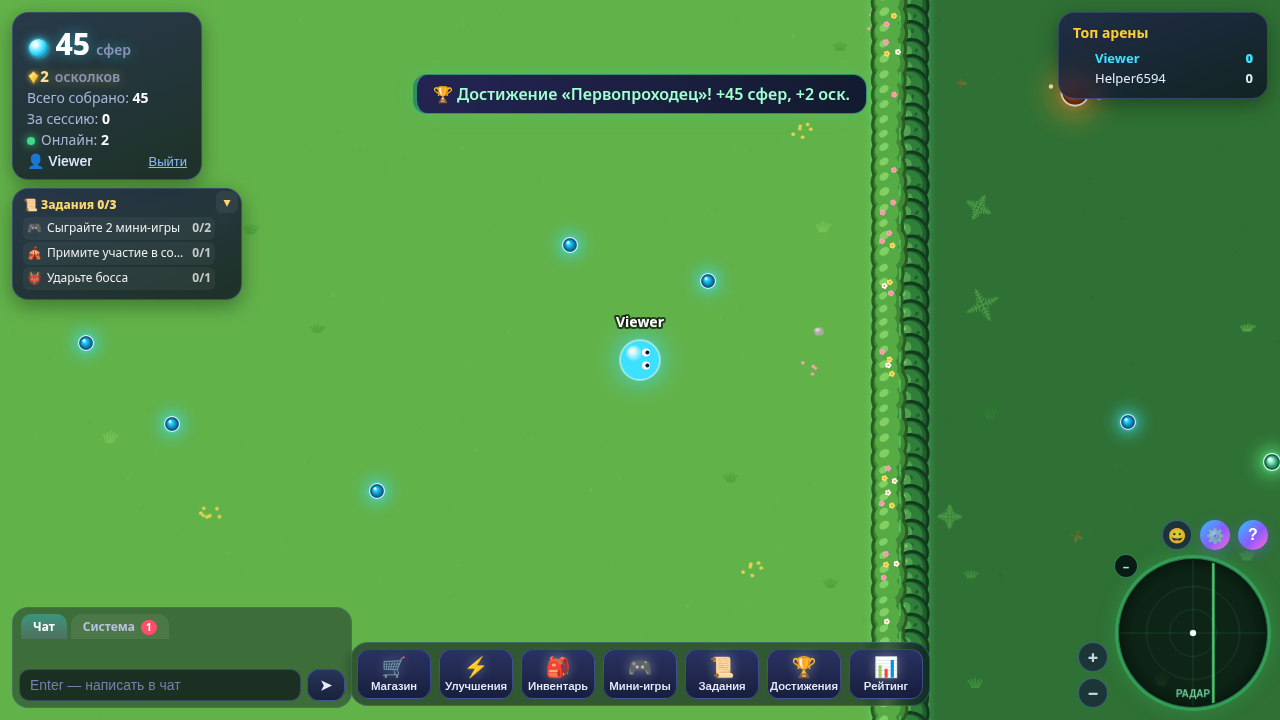
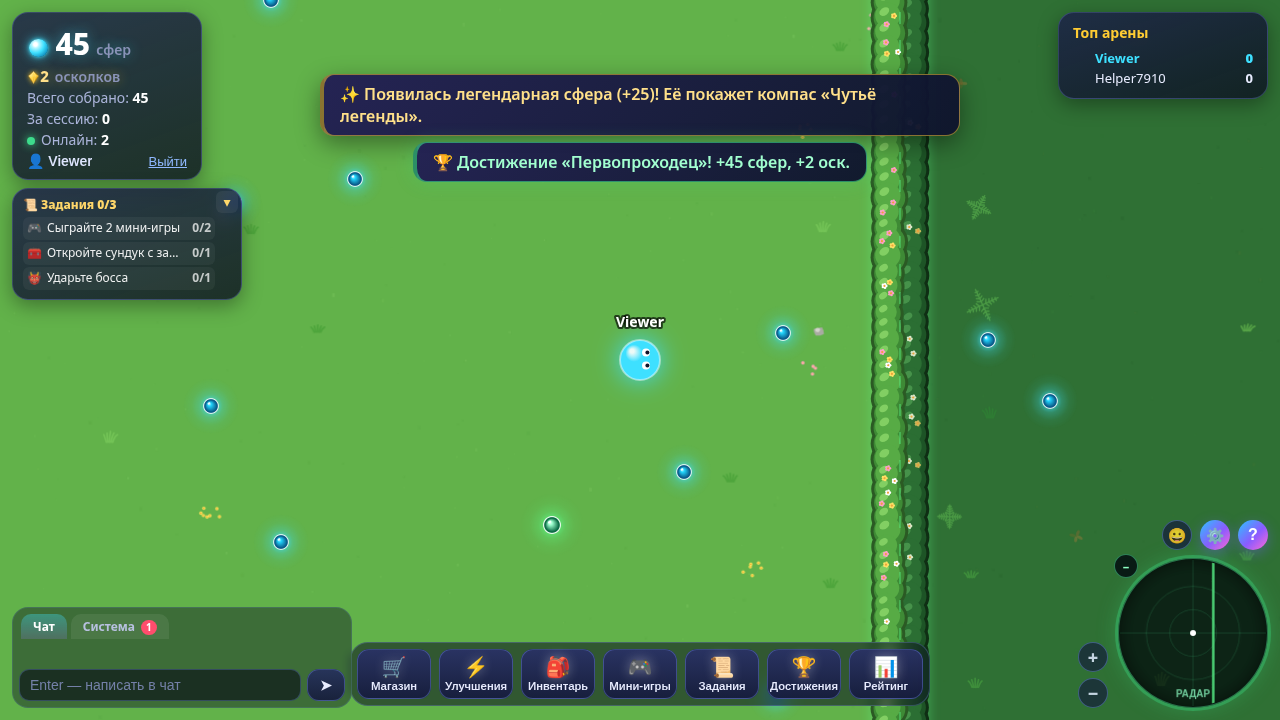
Zone 2 walls in dark hedge style; faceted low-poly rocks; top-down oak-log stumps

diff --git a/public/map-art.js b/public/map-art.js
@@ -152,16 +152,17 @@
     // zone 1 «поляна»: flowering hedges + rounded boulders; zone 2 «деревья»: top-down round-canopy trees + stumps
     const PZ = {
       hedge: { o: '#2b5a24', rim: '#3e8a35', base: '#57ab45', hi: '#82cf63', fl: ['#ffffff', '#ffe066', '#ff9ec7'] },
+      hedge2: { o: '#0f2e14', rim: '#1d5426', base: '#2b6e33', hi: '#46924a', fl: ['#d9e6c8', '#c9b45a', '#c98aa6'], fp: 0.12 },
       tree: { o: '#123a1c', rim: '#1f5f2c', base: '#2f7f3a', hi: '#4fa24e', dot: '#256b32' },
       rock: { o: '#57544c', rim: '#8f8c80', base: '#bdbaad', hi: '#e2e0d6' },
       stump: { o: '#3f2a1a', bark: '#7a5232', top: '#d2a56b', in: '#bf8f58' } };
     const OW = 3;
-    function hedgeMass(g, L) { const P = PZ.hedge; // merged cloud: all outlines, then rims, bases, highlights, flowers
+    function hedgeMass(g, L, P) { P = P || PZ.hedge; const FP = P.fp == null ? 0.4 : P.fp; // merged cloud: all outlines, then rims, bases, highlights, flowers
       g.fillStyle = P.o; for (const p of L) { g.beginPath(); g.arc(p.x, p.y, p.r + OW, 0, 6.2832); g.fill(); }
       g.fillStyle = P.rim; for (const p of L) { g.beginPath(); g.arc(p.x, p.y, p.r, 0, 6.2832); g.fill(); }
       g.fillStyle = P.base; for (const p of L) { g.beginPath(); g.arc(p.x - p.r * 0.1, p.y - p.r * 0.13, p.r * 0.8, 0, 6.2832); g.fill(); }
       g.fillStyle = P.hi; for (const p of L) { g.beginPath(); g.ellipse(p.x - p.r * 0.32, p.y - p.r * 0.38, p.r * 0.34, p.r * 0.24, -0.6, 0, 6.2832); g.fill(); }
-      for (const p of L) { if (p.v > 0.4) continue; const n = 1 + ((p.v * 10) | 0) % 3, fr = Math.max(1.8, p.r * 0.1);
+      for (const p of L) { if (p.v > FP) continue; const n = 1 + ((p.v * 10) | 0) % 3, fr = Math.max(1.8, p.r * 0.1);
         for (let i = 0; i < n; i++) { const a = p.v * 40 + i * 2.3, q = p.r * (0.25 + 0.4 * ((i * 0.37 + p.v) % 1)), x = p.x + Math.cos(a) * q, y = p.y + Math.sin(a) * q;
           g.fillStyle = P.fl[(i + ((p.v * 7) | 0)) % 3]; for (let k = 0; k < 5; k++) { g.beginPath(); g.arc(x + Math.cos(k * 1.2566) * fr, y + Math.sin(k * 1.2566) * fr, fr * 0.75, 0, 6.2832); g.fill(); }
           g.fillStyle = '#f2a33a'; g.beginPath(); g.arc(x, y, fr * 0.6, 0, 6.2832); g.fill(); } } }
@@ -173,24 +174,41 @@
       g.fillStyle = P.hi; g.beginPath(); g.arc(p.x - r * 0.3, p.y - r * 0.32, r * 0.36, 0, 6.2832); g.fill();
       g.fillStyle = '#7cc46a'; g.beginPath(); g.arc(p.x - r * 0.4, p.y - r * 0.44, r * 0.12, 0, 6.2832); g.fill(); }
     function trees(g, L) { L = L.slice().sort((a, b) => a.y - b.y || a.x - b.x); for (const p of L) treeOne(g, p); }
-    function boulderPath(g, cx, cy, rx, ry, seed) { const R = rng(seed), n = 9, P = []; for (let i = 0; i < n; i++) { const a = i / n * 6.2832 + 0.3, q = 0.9 + R() * 0.1, c = Math.cos(a), s = Math.sin(a), e = 1 / Math.pow(Math.pow(Math.abs(c), 3) + Math.pow(Math.abs(s), 3), 1 / 3);
-        P.push({ x: cx + c * e * rx * q, y: cy + s * e * ry * q }); } g.beginPath(); smoothPath(g, P, true); }
-    function boulder(g, cx, cy, rx, ry, seed) { const P = PZ.rock;
-      boulderPath(g, cx, cy, rx, ry, seed); g.fillStyle = P.rim; g.fill(); g.lineWidth = OW * 2; g.strokeStyle = P.o; g.lineJoin = 'round';
-      g.save(); boulderPath(g, cx, cy, rx, ry, seed); g.clip();
-      boulderPath(g, cx - rx * 0.07, cy - ry * 0.1, rx * 0.86, ry * 0.82, seed); g.fillStyle = P.base; g.fill();
-      g.fillStyle = P.hi; g.beginPath(); g.ellipse(cx - rx * 0.38, cy - ry * 0.42, Math.max(4, rx * 0.26), Math.max(3, ry * 0.15), -0.5, 0, 6.2832); g.fill();
-      g.strokeStyle = P.rim; g.lineWidth = 2; g.lineCap = 'round'; g.beginPath(); g.moveTo(cx + rx * 0.2, cy + ry * 0.05); g.lineTo(cx + rx * 0.38, cy + ry * 0.28); g.stroke();
-      g.restore(); boulderPath(g, cx, cy, rx, ry, seed); g.lineWidth = OW; g.strokeStyle = P.o; g.stroke(); }
+    function rockPts(cx, cy, rx, ry, seed) { const R = rng(seed), n = 7 + ((R() * 4) | 0), P = [], a0 = R() * 6.28;
+      for (let i = 0; i < n; i++) { const a = a0 + (i + (R() - 0.5) * 0.5) / n * 6.2832, c = Math.cos(a), s = Math.sin(a), e = 1 / Math.pow(Math.pow(Math.abs(c), 4) + Math.pow(Math.abs(s), 4), 1 / 4), q = 0.93 + R() * 0.1;
+        P.push({ x: cx + c * e * rx * q, y: cy + s * e * ry * q }); } return P; }
+    const poly = (g, P) => { g.beginPath(); P.forEach((p, i) => i ? g.lineTo(p.x, p.y) : g.moveTo(p.x, p.y)); g.closePath(); };
+    function boulder(g, cx, cy, rx, ry, seed) { // faceted low-poly cartoon rock: base rim, side facets shaded by facing, light top facet
+      const R = rng(seed + 11), P = rockPts(cx, cy, rx, ry, seed), tx = cx - rx * 0.12 + (R() - 0.5) * rx * 0.1, ty = cy - ry * 0.18, k = 0.5 + R() * 0.12;
+      const I = P.map(p => ({ x: tx + (p.x - cx) * k + (R() - 0.5) * rx * 0.08, y: ty + (p.y - cy) * k + (R() - 0.5) * ry * 0.08 }));
+      g.lineJoin = 'round'; poly(g, P.map(p => ({ x: p.x, y: p.y + 3 }))); g.fillStyle = '#5f5f63'; g.fill(); g.lineWidth = OW; g.strokeStyle = '#3c3c40'; g.stroke();
+      poly(g, P); g.fillStyle = '#7d7d83'; g.fill();
+      const sh = ['#5d5d63', '#6b6b71', '#7b7b81', '#8d8d93', '#a2a2a8', '#b5b5ba'];
+      for (let i = 0; i < P.length; i++) { const A = P[i], B = P[(i + 1) % P.length], C = I[(i + 1) % P.length], D = I[i];
+        const mx = (A.x + B.x) / 2 - cx, my = (A.y + B.y) / 2 - cy, L = Math.hypot(mx, my) || 1, lit = (-mx * 0.6 - my * 0.8) / L; // facing light (top-left)
+        const j = Math.max(0, Math.min(5, Math.round(2.4 + lit * 2.4 + (R() - 0.5) * 1.2)));
+        poly(g, [A, B, C, D]); g.fillStyle = sh[j]; g.fill(); g.lineWidth = 1; g.strokeStyle = sh[j]; g.stroke();
+        if (R() < 0.5) { const M = { x: (A.x + C.x) / 2, y: (A.y + C.y) / 2 }; poly(g, [A, B, M]); g.fillStyle = sh[Math.max(0, Math.min(5, j + (R() < 0.5 ? 1 : -1)))]; g.fill(); } }
+      poly(g, I); g.fillStyle = '#c2c2c7'; g.fill();
+      const ci = { x: I.reduce((s, p) => s + p.x, 0) / I.length + rx * 0.06, y: I.reduce((s, p) => s + p.y, 0) / I.length + ry * 0.06 }, n = I.length;
+      poly(g, [I[(n / 2) | 0], I[((n / 2) | 0) + 1] || I[0], ci]); g.fillStyle = '#b0b0b6'; g.fill();
+      g.strokeStyle = '#e4e4e8'; g.lineWidth = 2; g.lineCap = 'round'; g.beginPath();
+      for (let i = 0; i < n; i++) { const A = I[i], B = I[(i + 1) % n], my = (A.y + B.y) / 2 - ty, mx = (A.x + B.x) / 2 - tx; if (my + mx * 0.6 < 0) { g.moveTo(A.x, A.y); g.lineTo(B.x, B.y); } } g.stroke();
+      poly(g, P); g.lineWidth = OW; g.strokeStyle = '#3c3c40'; g.stroke(); }
     function tufts(g, x0, x1, y, seed) { return; const R = rng(seed), L = []; for (let x = x0 + 6; x < x1 - 4; x += 14 + R() * 18) L.push({ x, y: y - 2 + R() * 3, r: 6 + R() * 3, v: 1 }); hedgeMass(g, L); }
-    function stump(g, x, y, r) { const P = PZ.stump;
-      g.fillStyle = P.o; for (let i = 0; i < 4; i++) { const a = 0.5 + i * 1.57 + (r % 3) * 0.2; g.beginPath(); g.ellipse(x + Math.cos(a) * r * 0.85, y + Math.sin(a) * r * 0.85, r * 0.32 + OW, r * 0.22 + OW, a, 0, 6.2832); g.fill(); }
-      g.beginPath(); g.arc(x, y, r + OW, 0, 6.2832); g.fill();
-      g.fillStyle = P.bark; for (let i = 0; i < 4; i++) { const a = 0.5 + i * 1.57 + (r % 3) * 0.2; g.beginPath(); g.ellipse(x + Math.cos(a) * r * 0.85, y + Math.sin(a) * r * 0.85, r * 0.32, r * 0.22, a, 0, 6.2832); g.fill(); }
-      g.beginPath(); g.arc(x, y, r, 0, 6.2832); g.fill();
-      g.fillStyle = P.top; g.beginPath(); g.arc(x - r * 0.04, y - r * 0.06, r * 0.78, 0, 6.2832); g.fill();
-      g.strokeStyle = P.in; g.lineWidth = Math.max(1.5, r * 0.06); g.beginPath(); g.arc(x - r * 0.04, y - r * 0.06, r * 0.45, 0, 6.2832); g.stroke();
-      g.fillStyle = 'rgba(255,255,255,.25)'; g.beginPath(); g.ellipse(x - r * 0.35, y - r * 0.38, r * 0.22, r * 0.12, -0.6, 0, 6.2832); g.fill(); }
+    function stump(g, x, y, r, seed) { // top-down oak log: dark bark rim with streaks, warm concentric rounded-square rings
+      const R = rng((seed || 0) * 31 + r), sq = (k, c) => { rr(g, x - r * k, y - r * k, r * k * 2, r * k * 2, r * k * 0.6); g.fillStyle = c; g.fill(); };
+      rr(g, x - r - OW, y - r - OW, (r + OW) * 2, (r + OW) * 2, r * 0.5); g.fillStyle = '#2b1806'; g.fill();
+      sq(1, '#4e2e10');
+      g.save(); rr(g, x - r, y - r, r * 2, r * 2, r * 0.45); g.clip(); g.lineCap = 'round';
+      for (let i = 0; i < 40; i++) { const a = R() * 6.2832, c = Math.cos(a), s = Math.sin(a), e = 1 / Math.max(Math.abs(c), Math.abs(s)), d0 = r * (0.8 + R() * 0.08) * Math.min(e, 1.3), d1 = r * 1.3;
+        g.strokeStyle = R() < 0.55 ? '#2f1a07' : '#6b4019'; g.lineWidth = Math.max(1.5, r * (0.04 + R() * 0.05)); g.beginPath(); g.moveTo(x + c * d0, y + s * d0); g.lineTo(x + c * d1, y + s * d1); g.stroke(); }
+      g.restore();
+      sq(0.78, '#3a2009'); sq(0.74, '#c8822a');
+      g.lineWidth = Math.max(2, r * 0.07); g.strokeStyle = '#a8661e';
+      for (const k of [0.56, 0.38]) { rr(g, x - r * k, y - r * k, r * k * 2, r * k * 2, r * k * 0.45); g.stroke(); }
+      sq(0.2, '#8a5216');
+      g.strokeStyle = 'rgba(255,220,160,.35)'; g.lineWidth = Math.max(1.5, r * 0.05); g.beginPath(); g.moveTo(x - r * 0.62, y - r * 0.2); g.lineTo(x - r * 0.62, y - r * 0.5); g.quadraticCurveTo(x - r * 0.62, y - r * 0.62, x - r * 0.5, y - r * 0.62); g.lineTo(x - r * 0.2, y - r * 0.62); g.stroke(); }
     function fillRect2(w, h, rMin, rMax, seed, inset) { // puffs covering a w×h box; edge puffs overhang ~0.3r outward
       const R = rng(seed), L = [], m = Math.min(w, h), r0 = Math.max(rMin, Math.min(rMax, m * 0.55)), st = r0 * 1.05;
       const nx = Math.max(1, Math.round((w - r0 * 1.4) / st) + 1), ny = Math.max(1, Math.round((h - r0 * 1.4) / st) + 1);
@@ -199,7 +217,7 @@
       return L; }
     function art(g, k, w, h) {
       if (k === 'hedge') { g.fillStyle = PZ.hedge.rim; rr(g, 4, 4, w - 8, h - 8, 6); g.fill(); hedgeMass(g, fillRect2(w, h, 12, 24, w * 7 + h, 0.7)); }
-      else if (k === 'trees') { trees(g, fillRect2(w, h, 16, 34, w * 13 + h, 0.7)); }
+      else if (k === 'trees') { g.fillStyle = PZ.hedge2.rim; rr(g, 4, 4, w - 8, h - 8, 6); g.fill(); hedgeMass(g, fillRect2(w, h, 12, 24, w * 7 + h, 0.7), PZ.hedge2); }
       else if (k === 'boulder') { boulder(g, w / 2, h / 2, w / 2, h / 2, w * 3 + h); tufts(g, w * 0.12, w * 0.88, h - 3, w + h * 5); } }
     const sprites = new Map(); let spriteN = 0; const SS = 2, PAD = 16;
     function sprite(k, w, h) { const key = k + w + 'x' + h; let c = sprites.get(key); if (c) return c;
@@ -216,25 +234,25 @@
     function initWalls() { if (WL) return; WL = { b1: [], b2: [], d1: [], d2: [] };
       const put = (z, x, y, r, v, door) => (door ? (z === 1 ? WL.d1 : WL.d2) : (z === 1 ? WL.b1 : WL.b2)).push({ x, y, r, v });
       // edge rows: tangent-ish to the real boundary, centre 0.7r outside -> ~0.3r soft overhang, edge fully covered
-      const R = rng(9137), side = (x0, y0, x1, y1, nx, ny) => { const L = Math.hypot(x1 - x0, y1 - y0); let s = -40;
-        while (s < L + 40) { const f = s / L, x = x0 + (x1 - x0) * f, z = x < Z ? 1 : 2, r = z === 1 ? 20 + R() * 7 : 30 + R() * 12;
-          put(z, x + nx * r * 0.7, y0 + (y1 - y0) * f + ny * r * 0.7, r, R()); s += r * (z === 1 ? 1.0 : 1.1); } };
+      const R = rng(9137), R2 = rng(9138), side = (x0, y0, x1, y1, nx, ny) => { const L = Math.hypot(x1 - x0, y1 - y0); let s = -40;
+        while (s < L + 40) { const f = s / L, x = x0 + (x1 - x0) * f, z = x < Z ? 1 : 2, Q = z === 1 ? R : R2, r = 20 + Q() * 7;
+          put(z, x + nx * r * 0.7, y0 + (y1 - y0) * f + ny * r * 0.7, r, Q()); s += r; } };
       side(0, 0, WW, 0, 0, -1); side(WW, 0, WW, WH, 1, 0); side(0, WH, WW, WH, 0, 1); side(0, 0, 0, WH, -1, 0);
       // fill behind the edge rows (fully outside the world)
-      for (let gy = -OUT; gy < WH + OUT; gy += 46) for (let gx = -OUT; gx < WW + OUT; gx += 46) { const Rc = rng(hash(gx, gy, 77)), x = gx + Rc() * 40, y = gy + Rc() * 40, z = x < Z ? 1 : 2, r = z === 1 ? 24 + Rc() * 10 : 34 + Rc() * 14;
+      for (let gy = -OUT; gy < WH + OUT; gy += 46) for (let gx = -OUT; gx < WW + OUT; gx += 46) { const Rc = rng(hash(gx, gy, 77)), x = gx + Rc() * 40, y = gy + Rc() * 40, z = x < Z ? 1 : 2, r = 24 + Rc() * 10;
         const dx = Math.max(-x, x - WW, 0), dy = Math.max(-y, y - WH, 0); if (Math.hypot(dx, dy) < r * 1.6) continue; put(z, x, y, r, Rc()); }
       // door wall: hitbox x in [Z-22, Z+22]; hedge row on the zone-1 face, tree row on the zone-2 face
       const Rd = rng(5151); for (let y = -60; y < WH + 60; y += 0) { const r = 13 + Rd() * 3; put(1, Z - 22 + r * 0.72, y, r, Rd(), 1); y += r * 1.0; }
-      for (let y = -60; y < WH + 60; y += 0) { const r = 14 + Rd() * 3; put(2, Z + 22 - r * 0.72, y, r, Rd(), 1); y += r * 1.05; }
+      for (let y = -60; y < WH + 60; y += 0) { const r = 13 + Rd() * 3; put(2, Z + 22 - r * 0.72, y, r, Rd(), 1); y += r * 1.0; }
       for (const k in WL) { const A = WL[k]; A.grid = new Map(); for (const p of A) { const key = Math.floor(p.x / 512) + ',' + Math.floor(p.y / 512); (A.grid.get(key) || A.grid.set(key, []).get(key)).push(p); } } }
     function near(A, x0, y0, x1, y1) { const out = []; for (let cy = Math.floor((y0 - 70) / 512); cy <= Math.floor((y1 + 70) / 512); cy++) for (let cx = Math.floor((x0 - 70) / 512); cx <= Math.floor((x1 + 70) / 512); cx++) for (const p of A.grid.get(cx + ',' + cy) || []) if (p.x + p.r + 6 > x0 && p.x - p.r - 6 < x1 && p.y + p.r + 6 > y0 && p.y - p.r - 6 < y1) out.push(p); return out; }
     function paintWalls(g, x0, y0, x1, y1, door) {
       if (door) { // solid body exactly on the hitbox, puffs on top
-        g.fillStyle = PZ.hedge.rim; g.fillRect(Z - 22, y0, 22, y1 - y0); g.fillStyle = PZ.tree.rim; g.fillRect(Z, y0, 22, y1 - y0);
-        trees(g, near(WL.d2, x0, y0, x1, y1)); hedgeMass(g, near(WL.d1, x0, y0, x1, y1)); return; }
+        g.fillStyle = PZ.hedge.rim; g.fillRect(Z - 22, y0, 22, y1 - y0); g.fillStyle = PZ.hedge2.rim; g.fillRect(Z, y0, 22, y1 - y0);
+        hedgeMass(g, near(WL.d2, x0, y0, x1, y1), PZ.hedge2); hedgeMass(g, near(WL.d1, x0, y0, x1, y1)); return; }
       const outW = new Path2D(); outW.rect(-OUT - 100, -OUT - 100, WW + OUT * 2 + 200, WH + OUT * 2 + 200); outW.rect(0, 0, WW, WH);
-      g.save(); g.clip(outW, 'evenodd'); g.fillStyle = PZ.hedge.rim; g.fillRect(x0, y0, Math.max(0, Math.min(x1, Z) - x0), y1 - y0); if (x1 > Z) { g.fillStyle = PZ.tree.rim; g.fillRect(Math.max(x0, Z), y0, x1 - Math.max(x0, Z), y1 - y0); } g.restore();
-      hedgeMass(g, near(WL.b1, x0, y0, x1, y1)); trees(g, near(WL.b2, x0, y0, x1, y1)); }
+      g.save(); g.clip(outW, 'evenodd'); g.fillStyle = PZ.hedge.rim; g.fillRect(x0, y0, Math.max(0, Math.min(x1, Z) - x0), y1 - y0); if (x1 > Z) { g.fillStyle = PZ.hedge2.rim; g.fillRect(Math.max(x0, Z), y0, x1 - Math.max(x0, Z), y1 - y0); } g.restore();
+      hedgeMass(g, near(WL.b2, x0, y0, x1, y1), PZ.hedge2); hedgeMass(g, near(WL.b1, x0, y0, x1, y1)); }
     const WC = 512, WOV = 3, wallCache = new Map();
     function wallChunk(cx, cy, door) { const key = (door ? 'd' : 'b') + cx + ',' + cy; let c = wallCache.get(key); if (c) return c;
       if (wallCache.size > 90) wallCache.delete(wallCache.keys().next().value);
@@ -257,7 +275,7 @@
     const rockSpr = new Map();
     function rockObs(g, o, zone) { const r = Math.round(o.r), key = zone + ':' + r + ':' + (o.id % 5); let c = rockSpr.get(key);
       if (!c) { if (rockSpr.size > 200) rockSpr.clear(); const S = r * 2 + PAD * 2; c = document.createElement('canvas'); c.width = S * SS; c.height = S * SS; const q = c.getContext('2d'); q.scale(SS, SS); q.translate(S / 2, S / 2);
-        if (zone === 1) { boulder(q, 0, 0, r, r * 0.95, r * 7 + (o.id % 5)); tufts(q, -r * 0.7, r * 0.7, r * 0.9, r + (o.id % 5)); } else stump(q, 0, 0, r * 0.95);
+        if (zone === 1) { boulder(q, 0, 0, r, r * 0.95, r * 7 + (o.id % 5)); tufts(q, -r * 0.7, r * 0.7, r * 0.9, r + (o.id % 5)); } else stump(q, 0, 0, r * 0.9, o.id % 5);
         rockSpr.set(key, c); }
       const S = r * 2 + PAD * 2; g.drawImage(c, o.x - S / 2, o.y - S / 2, S, S); }
     function pylon(g, o, zone, armed, now) {

diff --git a/test/screenshot-rocks.js b/test/screenshot-rocks.js
@@ -1,0 +1,34 @@
+// Screenshots (zoomed out 0.5): full door wall ends, former path ground, former fence obstacle. Based on world border (corners + edges, both zones) and the door wall. node test/screenshot-walls.js (own server :3137, test hooks)
+const { chromium } = require('playwright-core');
+const { io } = require('socket.io-client');
+const { spawn } = require('child_process');
+const path = require('path'), os = require('os'), fs = require('fs');
+const G = require('../public/shared.js');
+const ROOT = path.join(__dirname, '..'), PW = 'demo-pass-123', PORT = 3141;
+const sleep = ms => new Promise(r => setTimeout(r, ms));
+let fails = 0; const ok = (c, m) => { console.log((c ? 'PASS ' : 'FAIL ') + m); if (!c) fails++; };
+const CHROME = process.env.CHROME || ['/usr/bin/google-chrome', '/usr/bin/chromium'].find(p => fs.existsSync(p));
+(async () => {
+  const file = path.join(os.tmpdir(), `ocs-rocks-${process.pid}.json`);
+  const proc = spawn(process.execPath, ['server.js'], { cwd: ROOT, env: Object.assign({}, process.env, { PORT: String(PORT), DATA_FILE: file, DATABASE_URL: '', EVENT_EVERY_MS: '0', OBSTACLES: '0', OCS_TEST_HOOKS: '1' }), stdio: 'ignore' });
+  process.on('exit', () => { try { proc.kill('SIGTERM'); fs.rmSync(file, { force: true }); } catch (_) {} });
+  const URL = `http://localhost:${PORT}`;
+  for (let i = 0; i < 100; i++) { try { if ((await fetch(URL + '/api/health')).ok) break; } catch (_) {} await sleep(200); }
+  const browser = await chromium.launch({ executablePath: CHROME, args: ['--no-sandbox', '--use-gl=swiftshader', '--enable-unsafe-swiftshader'] });
+  const vp = await (await browser.newContext({ viewport: { width: 1280, height: 720 } })).newPage();
+  const errors = []; vp.on('pageerror', e => errors.push(e.message));
+  await vp.addInitScript(() => localStorage.setItem('ocs_zoom', '1')); await vp.goto(URL); await sleep(400); await vp.click('.auth-tab[data-mode=register]');
+  await vp.fill('#nick', 'Viewer'); await vp.fill('#pass', PW); await vp.fill('#pass2', PW); await vp.click('#authSubmit');
+  await vp.waitForSelector('#profile:not(.hidden)'); await vp.click('#pfPlay'); await vp.waitForSelector('#hud:not(.hidden)');
+  const s = io(URL, { transports: ['websocket'], forceNew: true }); const call = (ev, d) => new Promise(r => s.emit(ev, d, r));
+  await new Promise(r => s.on('connect', r));
+  await call('auth', { mode: 'register', name: 'Helper' + Date.now() % 10000, password: PW, confirm: PW });
+  await call('test:stats', { name: 'Viewer', unlockedDoor2: true }); await sleep(500);
+  const W = G.WORLD.w, H = G.WORLD.h, Z = G.ZONE_W;
+  for (const [n, x, y] of [['screenshot-rocks', 3000, 3000], ['screenshot-stumps', Z + 3000, 3000]]) { await call('test:tp', { name: 'Viewer', x, y }); await call('test:obstacle', { clear: true });
+    for (const [dx, dy] of [[-420, -60], [0, -230], [420, -40]]) await call('test:obstacle', { kind: 'rock', x: x + dx, y: y + dy, lifeMs: 60000 });
+    if (n === 'screenshot-rocks') await call('test:obstacle', { kind: 'block', x: x + 30, y: y + 220, lifeMs: 60000 });
+    await sleep(2200); await vp.screenshot({ path: path.join(ROOT, n + '.png') }); }
+  ok(!errors.length, 'no page errors ' + errors.slice(0, 2).join('|'));
+  await browser.close(); process.exit(fails ? 1 : 0);
+})().catch(e => { console.error(e); process.exit(1); });
